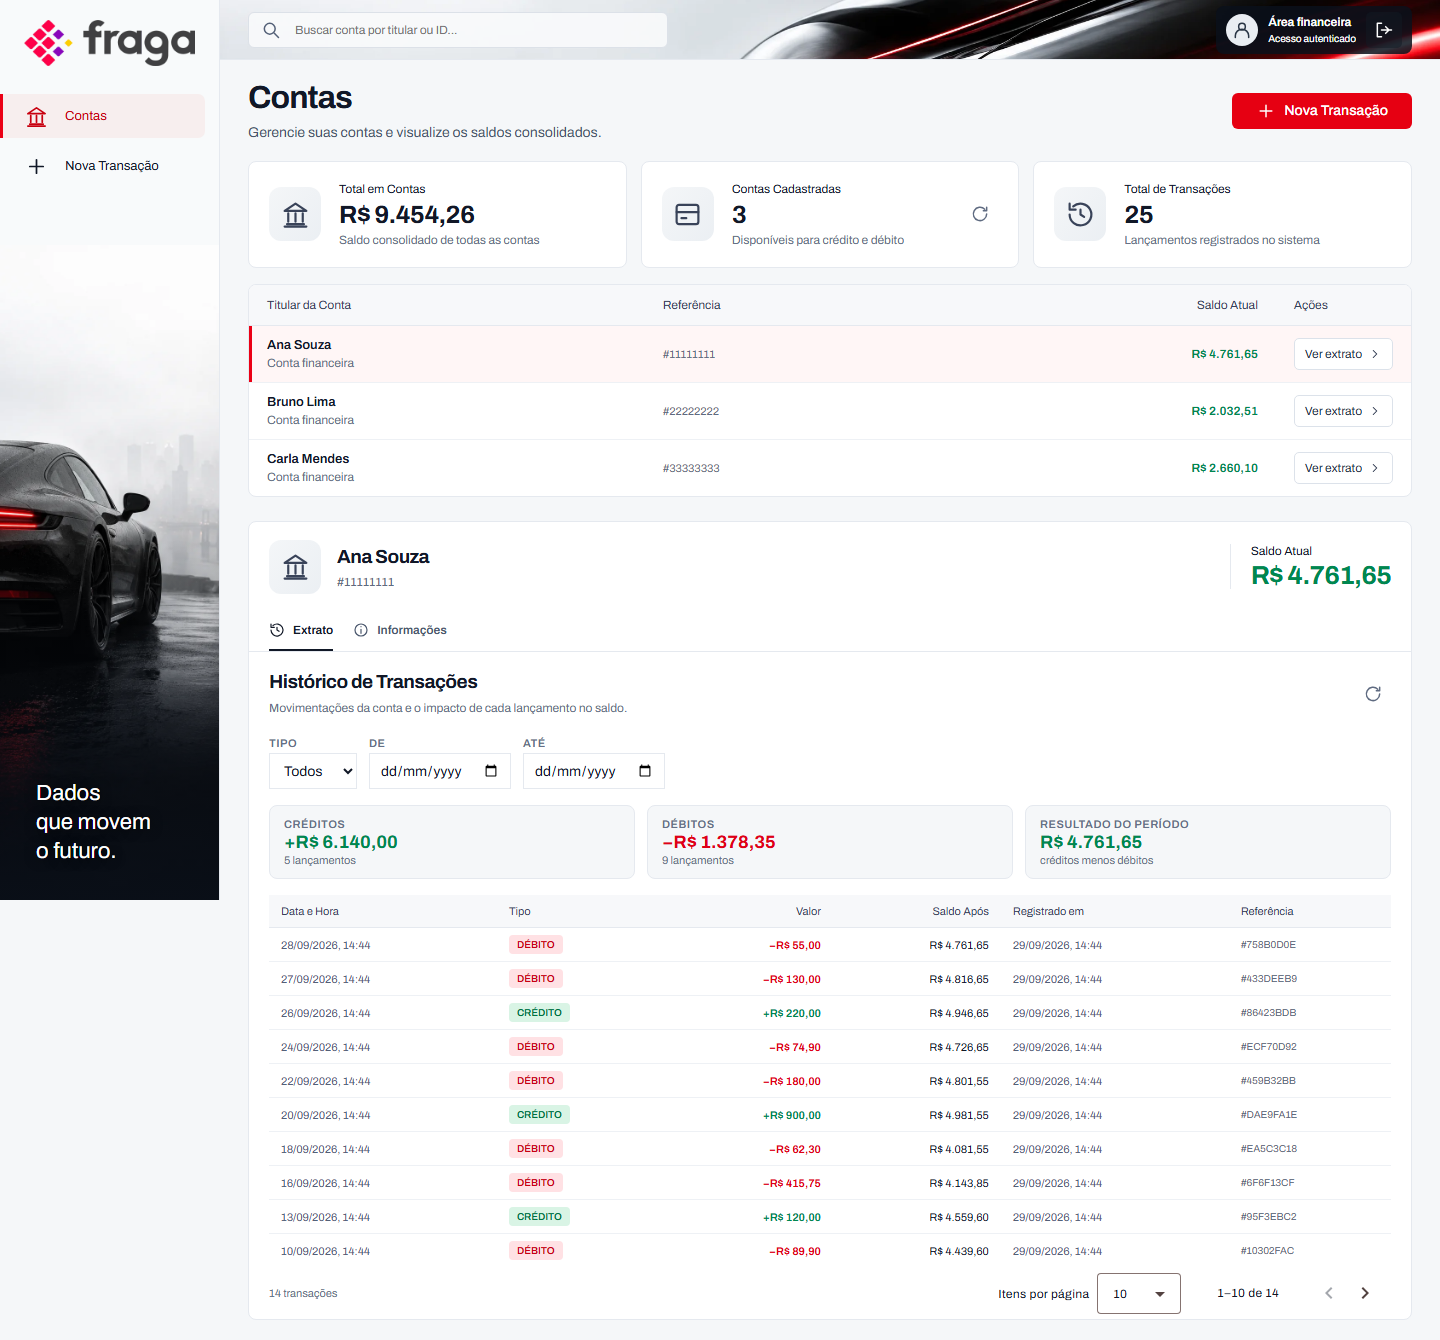
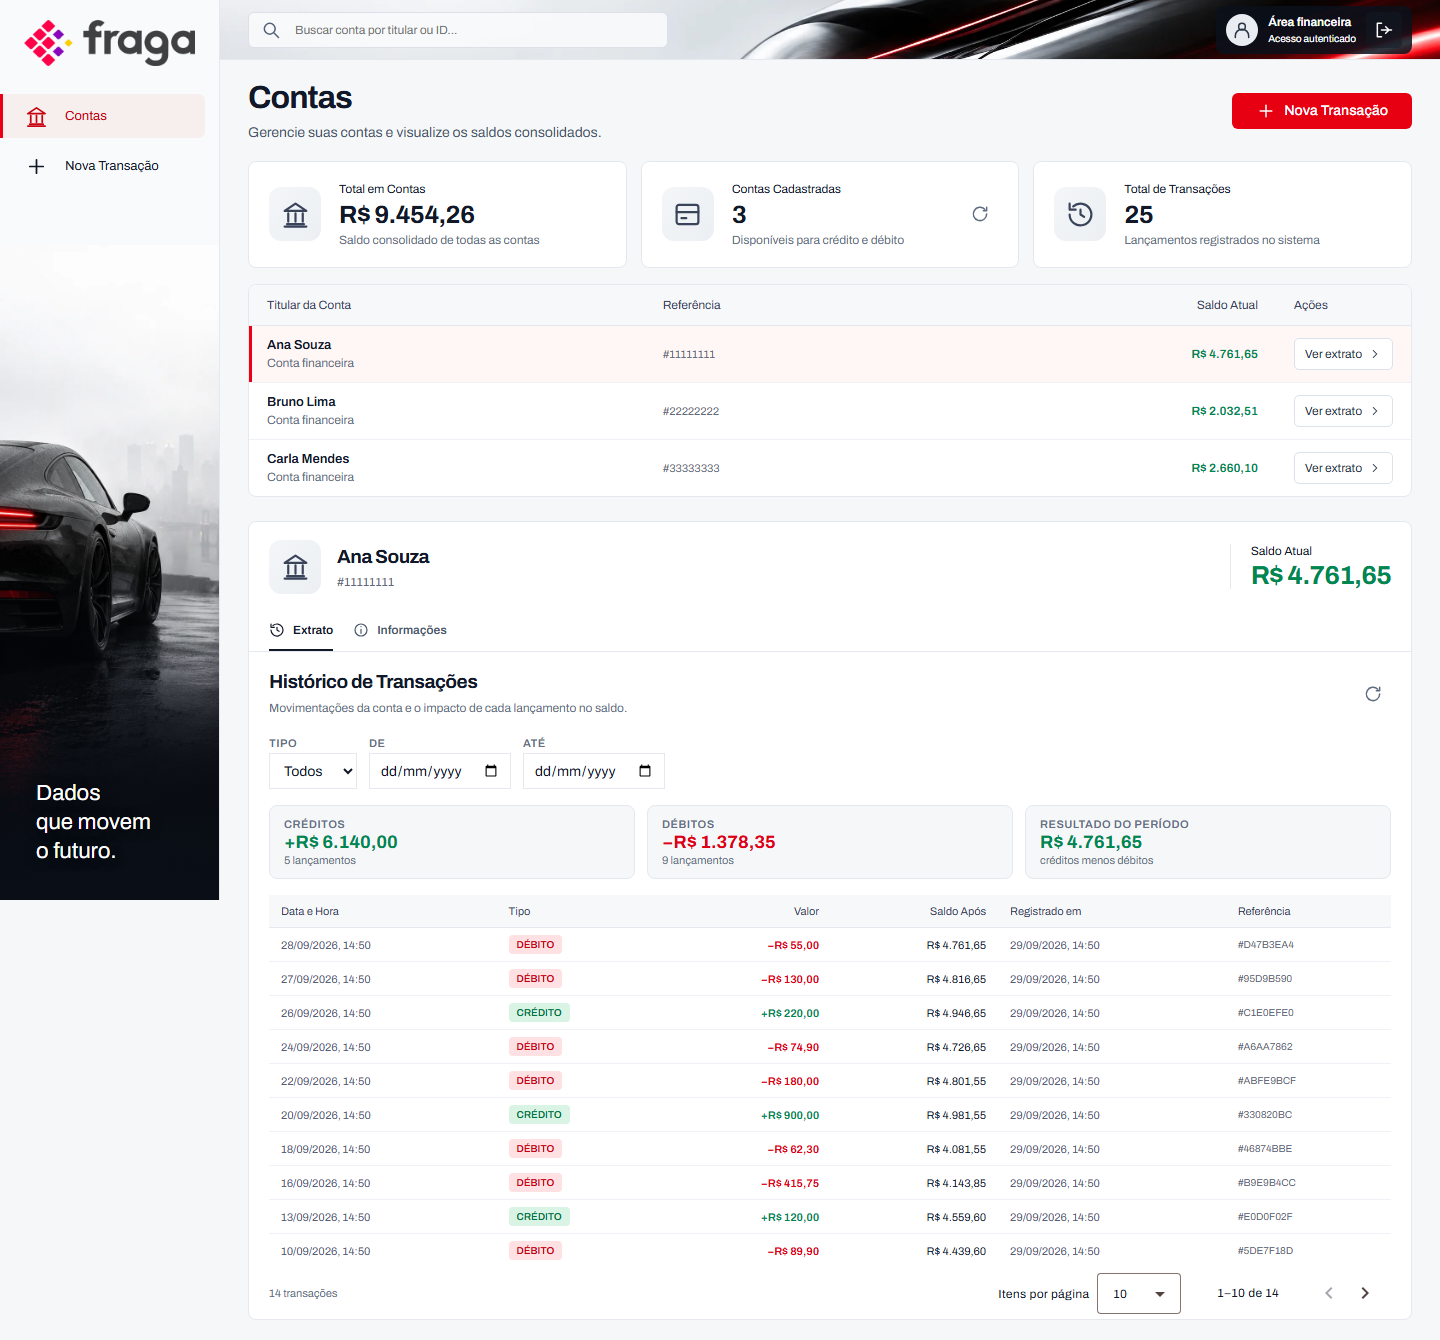
fix(seed): eventId aleatório no histórico de demonstração
- Os identificadores dos lançamentos do seed passam a ser aleatórios (Guid.NewGuid),
  como os que o frontend gera (crypto.randomUUID); a referência curta exibida na tela
  (#XXXXXXXX) herda esse aleatório.
- O script de prints ganha timeout maior: a primeira subida, com Keycloak e API
  frios, passava dos 30s padrão do Playwright.
- Prints regerados a partir de uma instalação limpa.

diff --git a/backend/src/FinancialTransactions.Infrastructure/Persistence/Seed/DatabaseSeeder.cs b/backend/src/FinancialTransactions.Infrastructure/Persistence/Seed/DatabaseSeeder.cs
@@ -1,5 +1,3 @@
-using System.Security.Cryptography;
-using System.Text;
 using FinancialTransactions.Domain.Entities;
 using FinancialTransactions.Domain.Enums;
 using FinancialTransactions.Domain.ValueObjects;
@@ -68,7 +66,6 @@ public static class DatabaseSeeder
         }
 
         var now = timeProvider.GetUtcNow();
-        var sequence = 0;
 
         foreach (var seedAccount in SeedAccounts)
         {
@@ -76,10 +73,9 @@ public static class DatabaseSeeder
 
             foreach (var movement in seedAccount.Movements)
             {
-                sequence++;
                 // histórico de demonstração: eventos do passado, gravados agora
                 account.RegisterTransaction(
-                    SeedEventId(sequence),
+                    Guid.NewGuid(),
                     movement.Type,
                     Money.Create(movement.Amount),
                     now.AddDays(-movement.DaysAgo),
@@ -91,7 +87,4 @@ public static class DatabaseSeeder
 
         await dbContext.SaveChangesAsync(cancellationToken);
     }
-
-    private static Guid SeedEventId(int sequence) =>
-        new(SHA256.HashData(Encoding.UTF8.GetBytes($"seed-transaction-{sequence}"))[..16]);
 }
